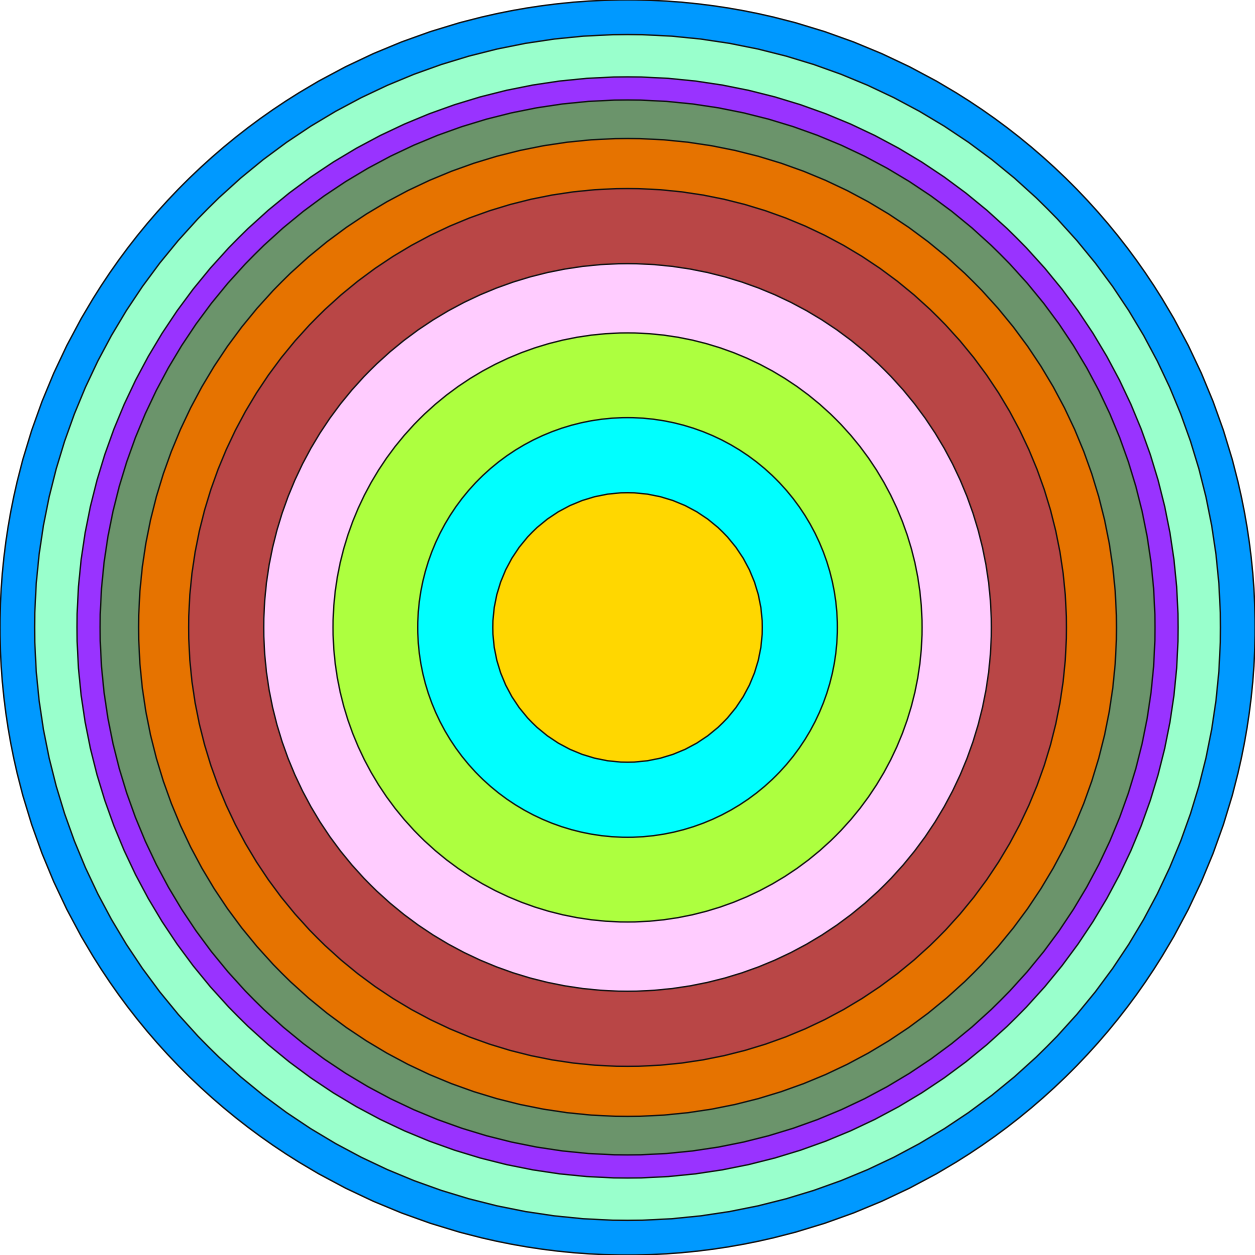
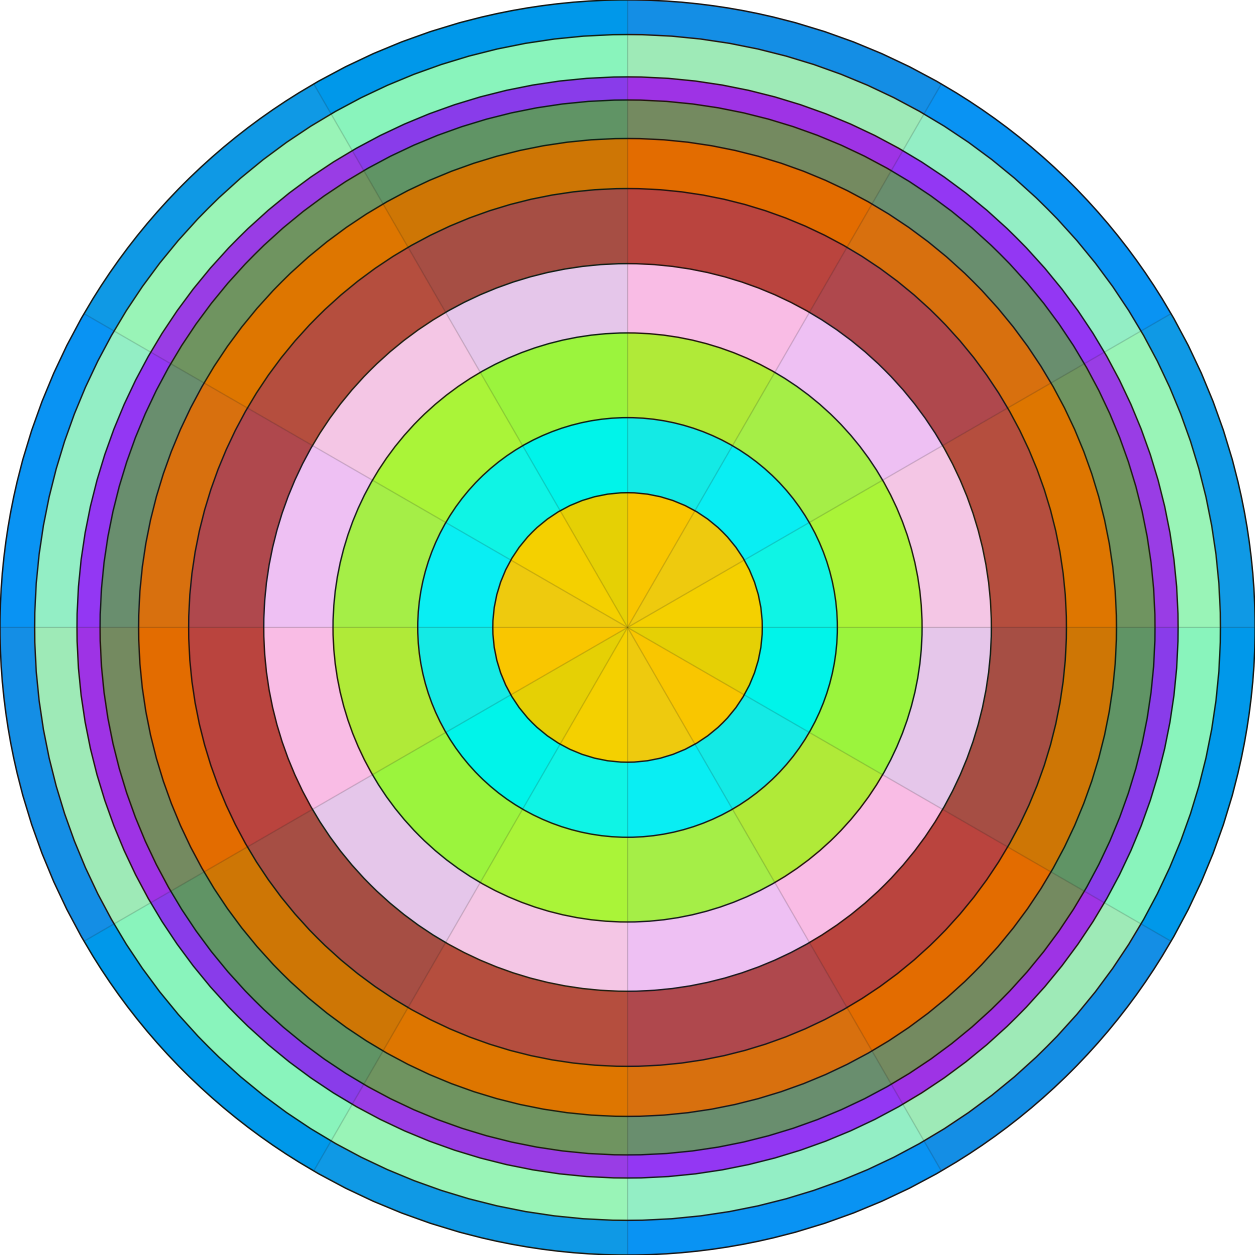
...

diff --git a/ephemeraldaddy/graphics/_chartwheel_generator_impl.py b/ephemeraldaddy/graphics/_chartwheel_generator_impl.py
@@ -90,7 +90,7 @@ def draw_chartwheel(output_path: Path) -> Path:
             theta1=theta1,
             theta2=theta2,
             facecolor=SIGN_COLORS[sign],
-            alpha=0.10,
+            alpha=0.30,
             edgecolor="#202020",
             linewidth=0.8,
             zorder=ZODIAC_OVERLAY_ZORDER,
